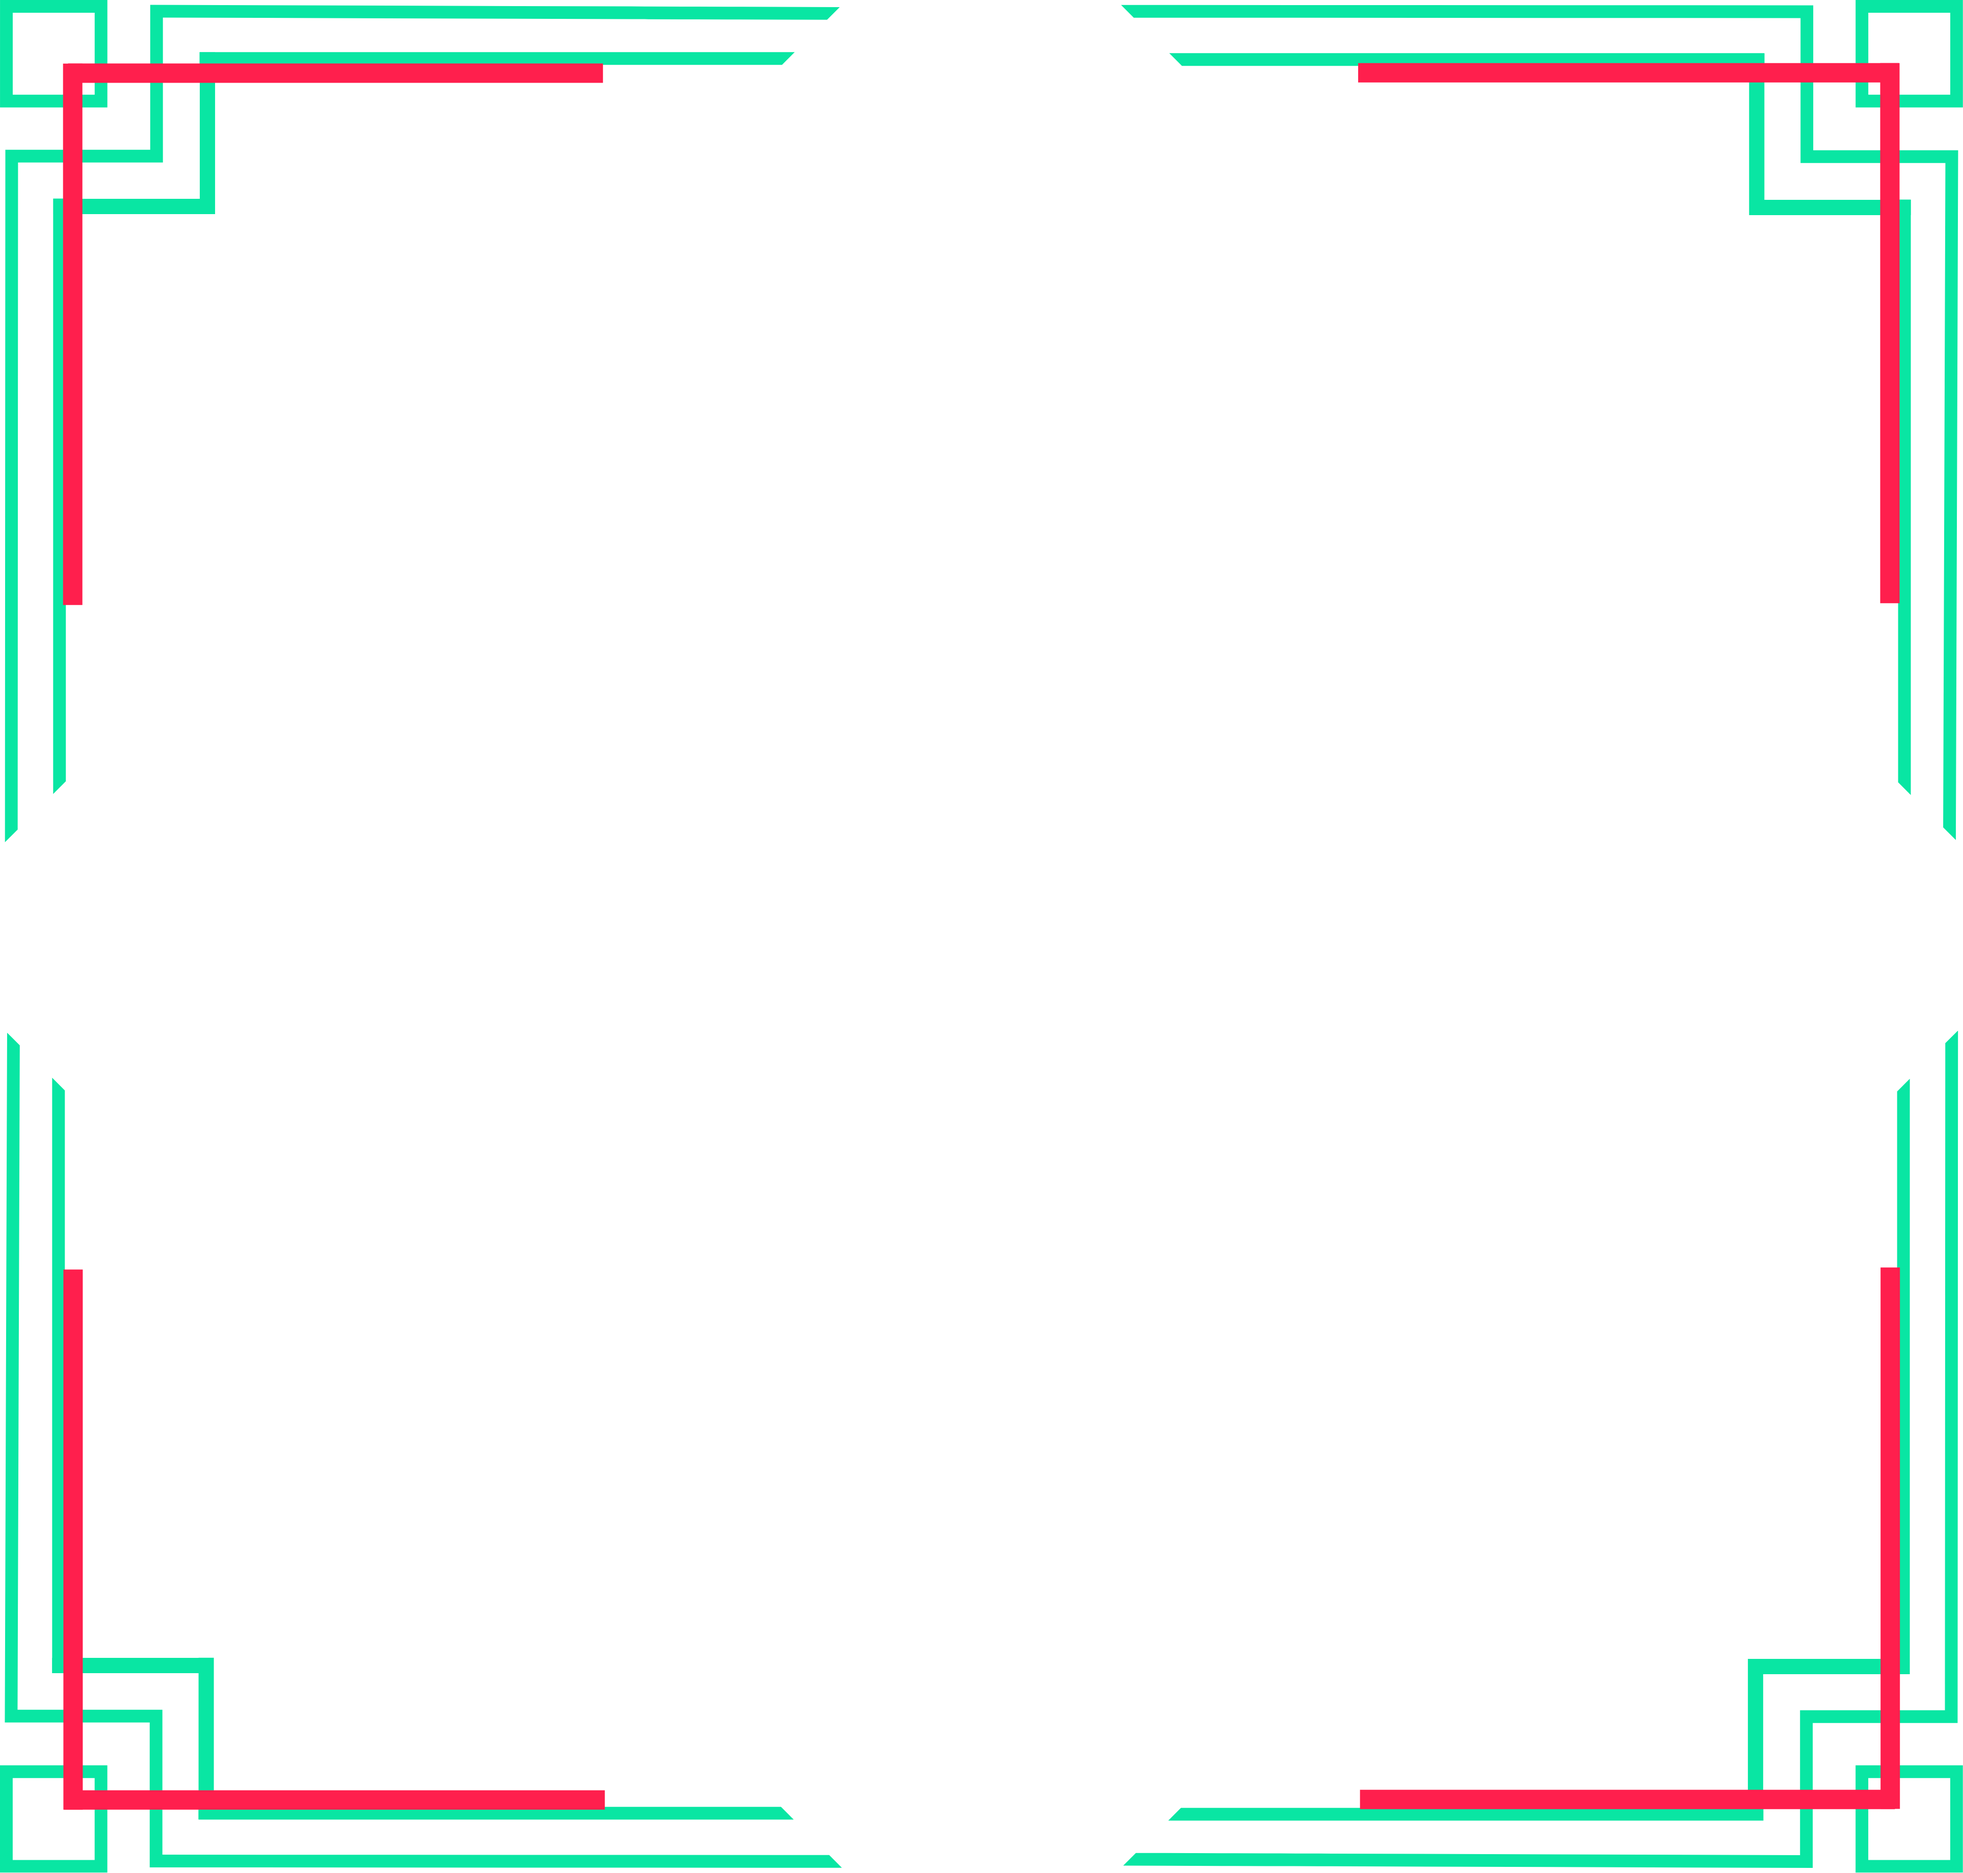
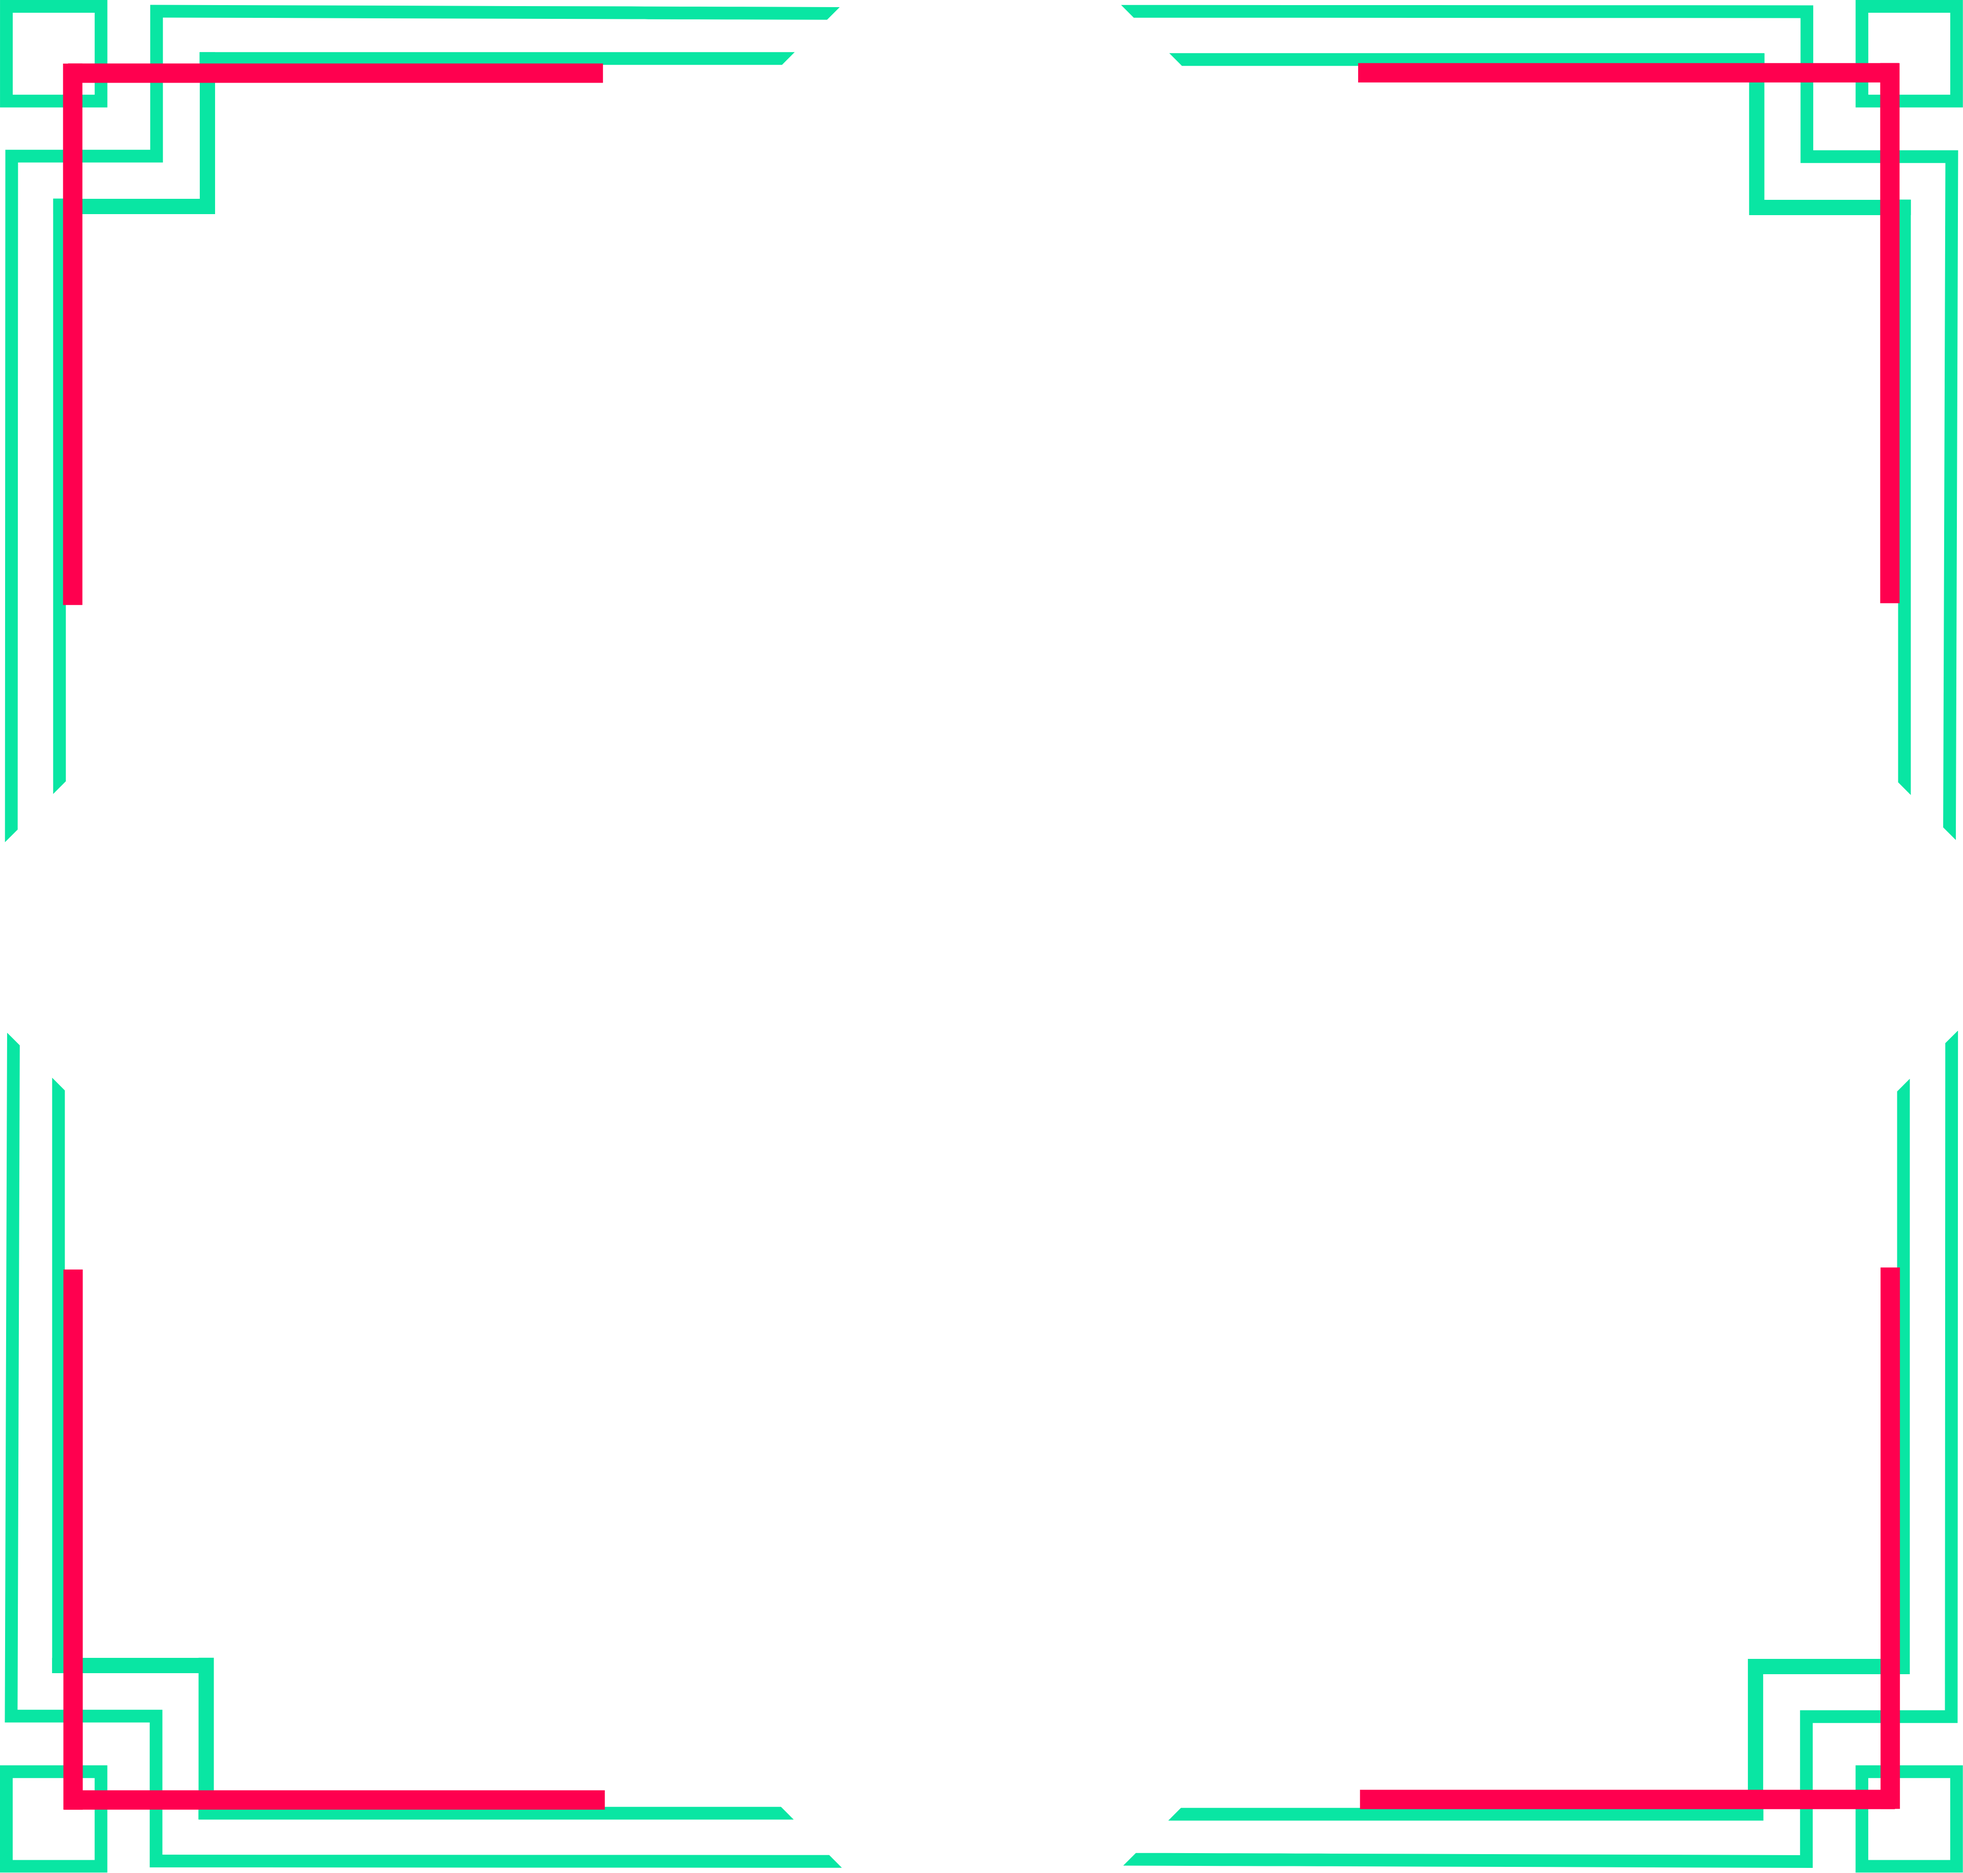
changed the red color to folly red

diff --git a/css/main_style.css b/css/main_style.css
@@ -2,7 +2,7 @@ html{
     border: 100px solid transparent;
     margin: 0px;
     border-image: url("./extra files/border.png") 1650 round;
-    scrollbar-color: rgb(238,5,106) rgb(0,0,0);
+    scrollbar-color: rgb(255, 0, 79) rgb(0,0,0);
     scrollbar-width: thin;
 }
 
@@ -27,11 +27,11 @@ img{
 }
 
 a:link {
-    color: rgb(238, 5, 106);
+    color: rgb(255, 0, 79);
 
 }
 a:visited{
-    color: rgb(193, 9, 110);
+    color: rgb(255, 0, 79);
 }
 a:hover{
     color: rgb(244, 6, 224);
